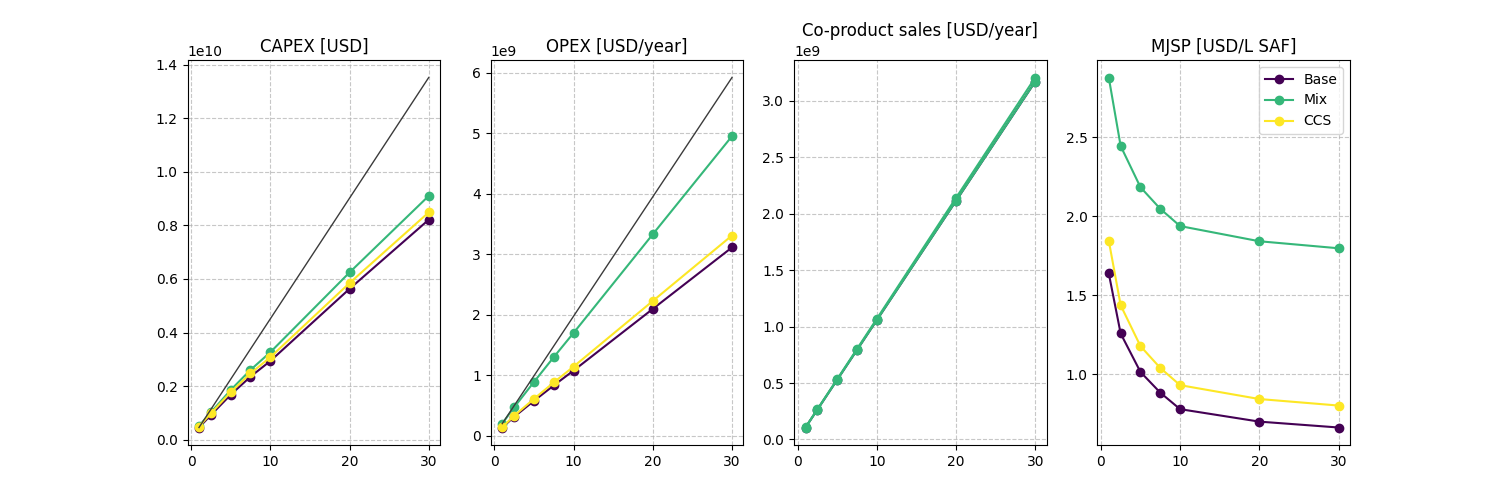
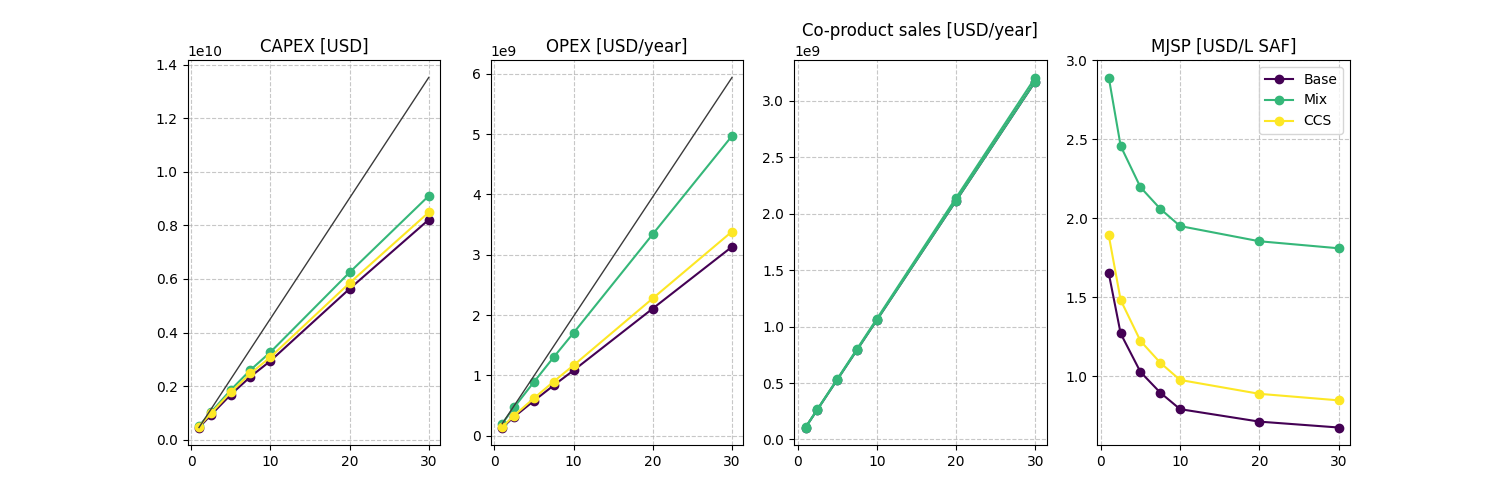
Scale-up TEA: CO2 T&S at $10/t, regenerate results and figures
tea_scale_up.py and tea_scale_up_price_models.py now set
tea.co2_ts_usd_per_ton = 10., the same CO2 transport & storage basis
as tea_pareto_front.py and tea_tornado.py. Previously the scale-up
scripts ran with no T&S cost, so their MJSP sat below the
Pareto/tornado results.

Regenerated outputs:
- Result/scale_up_base_summary.xlsx, Result/scale_up_price_model_mjsp.xlsx
  (base MJSP up ~0.012-0.013 $/L in utilities; CCS cases up ~0.07 $/L).
- Figure/scale_up_price_model_mjsp(_base).png,
  Figure/scale_up_wo_price_model_{base,ammonia,ccs,mix}_summary.png,
  Figure/scale_up_wo_price_model_{mjsp,opex}.{png,eps}.

The manuscript numbers that depend on these were synced in 6714cc6.

Claude-Session: https://claude.ai/code/session_01LoTpjSGQ77xY88hr1jous2

diff --git a/tea_scale_up_price_models.py b/tea_scale_up_price_models.py
@@ -6,6 +6,7 @@ import os
 from funs import TEA
 
 tea = TEA()
+tea.co2_ts_usd_per_ton = 10.   # CO2 T&S basis, same as tea_pareto_front.py / tea_tornado.py
 operation_hr = 8000
 
 case_scale = [1, 2.5, 5, 7.5, 10, 20, 30]

diff --git a/tea_scale_up.py b/tea_scale_up.py
@@ -23,6 +23,7 @@ SA_RC = {
 }
 
 tea = TEA()
+tea.co2_ts_usd_per_ton = 10.   # CO2 T&S basis, same as tea_pareto_front.py / tea_tornado.py
 
 # case_scale = [7.5, 8.6, 10]
 case_scale = [1, 2.5, 5, 7.5, 10, 20, 30]
